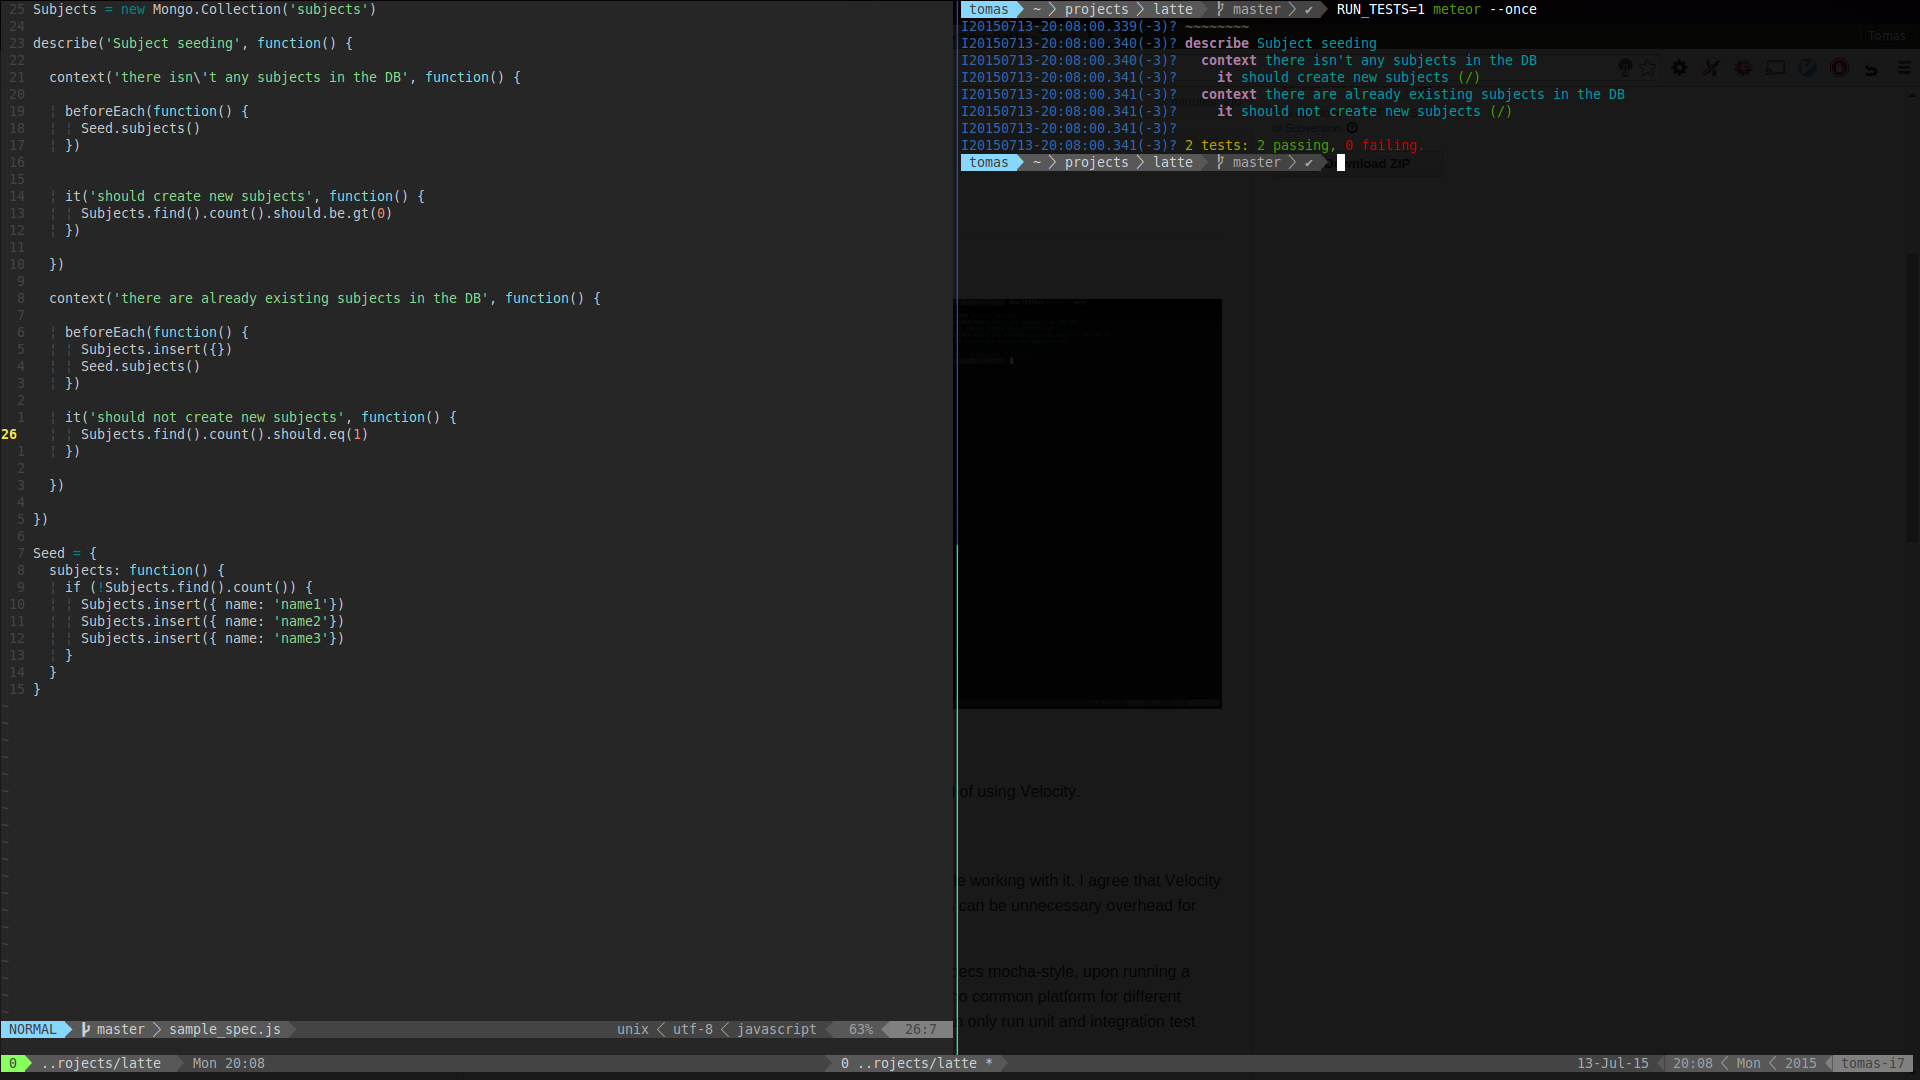
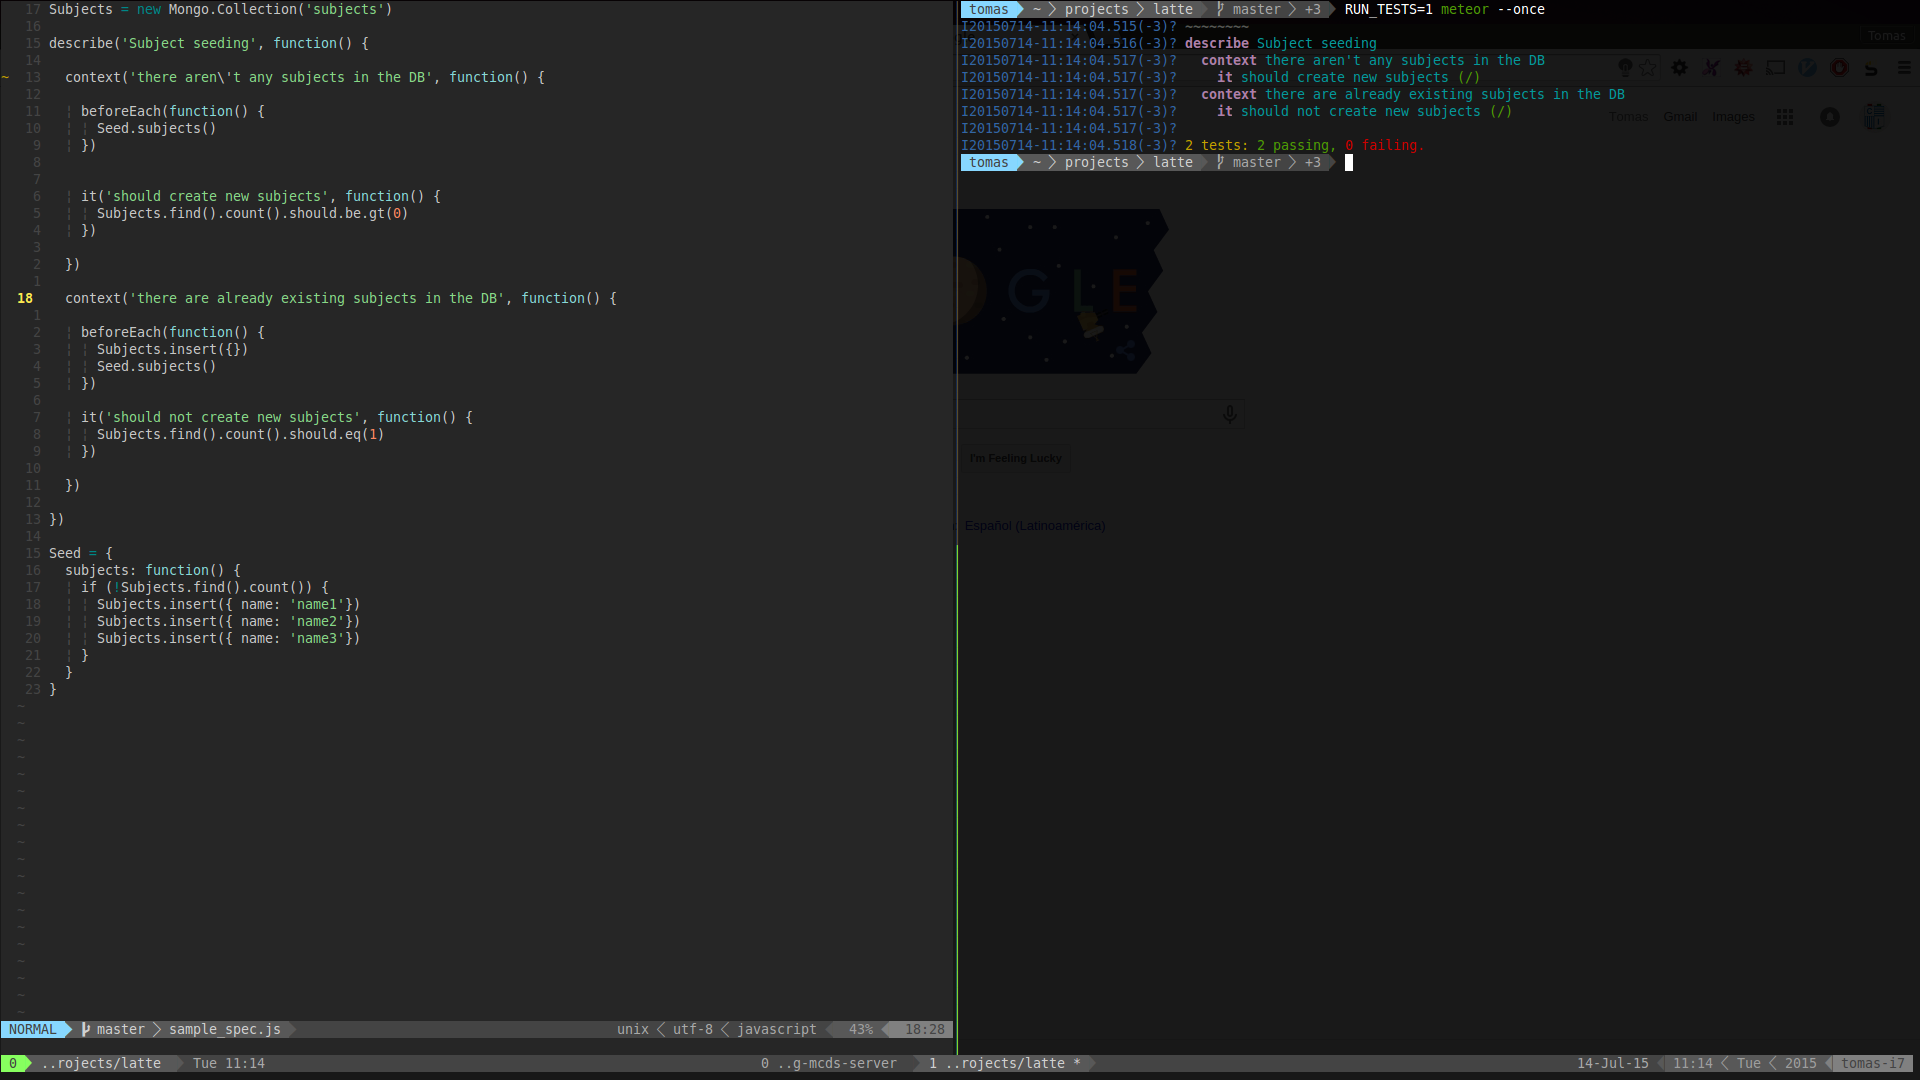
Updated README and version bump

diff --git a/specs/sample_spec.js b/specs/sample_spec.js
@@ -2,7 +2,7 @@ Subjects = new Mongo.Collection('subjects')
 
 describe('Subject seeding', function() {
 
-  context('there isn\'t any subjects in the DB', function() {
+  context('there aren\'t any subjects in the DB', function() {
 
     beforeEach(function() {
       Seed.subjects()

diff --git a/packages/latte/package.js b/packages/latte/package.js
@@ -1,6 +1,6 @@
 Package.describe({
   name: 'canotto90:latte',
-  version: '0.5.0',
+  version: '0.5.1',
   summary: 'Run mocha-like specs in Meteor, without Velocity\'s overhead.',
   git: 'https://github.com/taromero/latte.git',
   documentation: '../../README.md'
